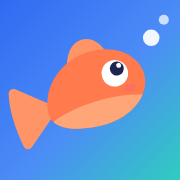
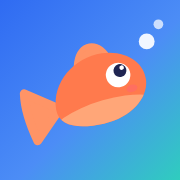
Add files via upload

diff --git a/index.html b/index.html
@@ -338,6 +338,18 @@ textarea.input{height:auto;min-height:100px;padding:14px 16px;line-height:1.4;re
 .bubble{position:absolute;top:4px;left:50%;transform:translateX(-50%);white-space:nowrap;background:var(--toast-bg);color:var(--toast-ink);font-weight:750;font-size:15px;padding:10px 14px;border-radius:18px 18px 18px 6px;box-shadow:0 10px 30px rgba(0,0,0,.2)}
 .art .mic-big{margin:60px 0 0}
 .lead-list{display:flex;flex-direction:column;gap:8px;width:250px}
+.lock-art{width:250px;height:220px;border-radius:30px;padding:22px 12px 12px;display:flex;flex-direction:column;align-items:center;color:#fff;background:linear-gradient(160deg,#1E3A7A,#2F6BF2 55%,#2FCDBE);box-shadow:0 18px 40px rgba(43,72,140,.25)}
+.lock-art b{font-size:50px;font-weight:700;letter-spacing:-.02em;line-height:1}
+.lock-art .lk-date{font-size:12.5px;font-weight:650;opacity:.85;margin-top:4px}
+.lk-note{margin-top:auto;width:100%;display:flex;gap:9px;align-items:flex-start;padding:10px;border-radius:18px;background:rgba(255,255,255,.24);-webkit-backdrop-filter:blur(10px);backdrop-filter:blur(10px);text-align:left;animation:lkIn 2.8s cubic-bezier(.2,.9,.25,1.1) infinite}
+.lk-ic svg{width:30px;height:30px;display:block}
+.lk-note div{flex:1;min-width:0;display:flex;flex-direction:column;gap:1px}
+.lk-t{font-size:12.5px;font-weight:800}
+.lk-b{font-size:12px;opacity:.92}
+.lk-now{font-size:10.5px;opacity:.8}
+@keyframes lkIn{0%{transform:translateY(16px);opacity:0}14%,86%{transform:none;opacity:1}100%{transform:none;opacity:1}}
+.i-notif{margin-top:22px;width:auto;padding:0 28px;min-height:52px;background:var(--card)!important;color:var(--brand-ink)!important;border:1.5px solid rgba(47,107,242,.28)!important;box-shadow:0 8px 22px rgba(47,107,242,.16)}
+.i-notif.done{color:#118C80}
 .lead-list div{display:flex;justify-content:space-between;align-items:center;gap:10px;background:var(--card);border:1px solid var(--stroke);box-shadow:var(--card-shadow);border-radius:14px;padding:10px 14px;font-weight:700;font-size:15px}
 .lead-list span{color:var(--ink-3);font-weight:700;font-size:13.5px;white-space:nowrap}
 .share-art{display:flex;gap:14px;align-items:center;font-weight:750}
@@ -380,7 +392,7 @@ textarea.input{height:auto;min-height:100px;padding:14px 16px;line-height:1.4;re
 </svg>
 
 <header class="bar">
-  <div class="brand"><svg xmlns="http://www.w3.org/2000/svg" aria-hidden="true" viewBox="0 0 100 100"><defs><linearGradient id="lbg" x1="0" y1="0" x2="1" y2="1"><stop offset="0" stop-color="#2F6BF2"/><stop offset=".55" stop-color="#4C8DF6"/><stop offset="1" stop-color="#2FCDBE"/></linearGradient><clipPath id="lsq"><rect width="100" height="100" rx="22.5"/></clipPath></defs><g clip-path="url(#lsq)"><rect width="100" height="100" fill="url(#lbg)"/><g transform="translate(48 53) scale(1.0515511141340528) translate(-50.43 -56.67)"><defs><clipPath id="lbody"><path d="M28 58 C30 42 46 32 62 34 C76 36 84 46 82 56 C80 66 68 74 52 73 C38 72 27 68 28 58 Z"/></clipPath></defs>
+  <div class="brand"><svg xmlns="http://www.w3.org/2000/svg" aria-hidden="true" viewBox="0 0 100 100"><defs><linearGradient id="lbg" x1="0" y1="0" x2="1" y2="1"><stop offset="0" stop-color="#2F6BF2"/><stop offset=".55" stop-color="#4C8DF6"/><stop offset="1" stop-color="#2FCDBE"/></linearGradient><clipPath id="lsq"><rect width="100" height="100" rx="22.5"/></clipPath></defs><g clip-path="url(#lsq)"><rect width="100" height="100" fill="url(#lbg)"/><g transform="translate(51 53) scale(0.9726847805739988) translate(-50.43 -56.67)"><defs><clipPath id="lbody"><path d="M28 58 C30 42 46 32 62 34 C76 36 84 46 82 56 C80 66 68 74 52 73 C38 72 27 68 28 58 Z"/></clipPath></defs>
 <g class="fishbody" transform="rotate(-16 54 54)">
   <path d="M30 58 L13 44 C11 52 11 60 13 72 Z" fill="#FF9466" stroke="#FF9466" stroke-width="5" stroke-linejoin="round"/>
   <path d="M46 37 C50 26 60 25 64 35 Z" fill="#FF9466" stroke="#FF9466" stroke-width="3" stroke-linejoin="round"/>
@@ -391,7 +403,7 @@ textarea.input{height:auto;min-height:100px;padding:14px 16px;line-height:1.4;re
   <circle cx="70.6" cy="45" r="1.3" fill="#fff"/>
   <ellipse cx="73" cy="58" rx="3.2" ry="2.1" fill="#FF5E7E" opacity=".4"/>
 </g>
-</g><circle cx="84" cy="21" r="4.6" fill="#fff" opacity=".92"/><circle cx="91" cy="11" r="2.8" fill="#fff" opacity=".72"/></g></svg>MeMo</div>
+</g><circle cx="81.5" cy="23" r="4.4" fill="#fff" opacity=".92"/><circle cx="88" cy="13.5" r="2.7" fill="#fff" opacity=".72"/></g></svg>MeMo</div>
   <div class="mini" aria-hidden="true"><span class="dot"></span><span id="miniTxt"></span></div>
   <div class="top-actions"><button class="icon-btn" id="btnSettings" aria-label="Impostazioni">
     <svg width="24" height="24" viewBox="0 0 24 24" fill="currentColor" aria-hidden="true"><circle cx="5" cy="12" r="1.8"/><circle cx="12" cy="12" r="1.8"/><circle cx="19" cy="12" r="1.8"/></svg>
@@ -407,7 +419,7 @@ textarea.input{height:auto;min-height:100px;padding:14px 16px;line-height:1.4;re
         <circle class="arc" id="ringArc" cx="100" cy="100" r="92" pathLength="100" stroke-dasharray="100" stroke-dashoffset="100" transform="rotate(-90 100 100)"/>
       </svg>
       <div class="center"><div class="num" id="heroNum"></div><div class="unit" id="heroUnit"></div>
-        <svg class="knot fish" id="heroKnot" hidden viewBox="0 0 100 100" aria-hidden="true"><g transform="translate(48 53) scale(1.1041286698407555) translate(-50.43 -56.67)"><defs><clipPath id="hbody"><path d="M28 58 C30 42 46 32 62 34 C76 36 84 46 82 56 C80 66 68 74 52 73 C38 72 27 68 28 58 Z"/></clipPath></defs>
+        <svg class="knot fish" id="heroKnot" hidden viewBox="0 0 100 100" aria-hidden="true"><g transform="translate(51 53) scale(1.0213190196026987) translate(-50.43 -56.67)"><defs><clipPath id="hbody"><path d="M28 58 C30 42 46 32 62 34 C76 36 84 46 82 56 C80 66 68 74 52 73 C38 72 27 68 28 58 Z"/></clipPath></defs>
 <g class="fishbody" transform="rotate(-16 54 54)">
   <path d="M30 58 L13 44 C11 52 11 60 13 72 Z" fill="#FF9466" stroke="#FF9466" stroke-width="5" stroke-linejoin="round"/>
   <path d="M46 37 C50 26 60 25 64 35 Z" fill="#FF9466" stroke="#FF9466" stroke-width="3" stroke-linejoin="round"/>
@@ -418,7 +430,7 @@ textarea.input{height:auto;min-height:100px;padding:14px 16px;line-height:1.4;re
   <circle cx="70.6" cy="45" r="1.3" fill="#fff"/>
   <ellipse cx="73" cy="58" rx="3.2" ry="2.1" fill="#FF5E7E" opacity=".4"/>
 </g>
-</g><circle cx="84" cy="21" r="4.6" fill="#8DA6F5" opacity=".92"/><circle cx="91" cy="11" r="2.8" fill="#8DA6F5" opacity=".72"/></svg></div>
+</g><circle cx="81.5" cy="23" r="4.4" fill="#8DA6F5" opacity=".92"/><circle cx="88" cy="13.5" r="2.7" fill="#8DA6F5" opacity=".72"/></svg></div>
     </div>
     <h1 id="heroTitle"></h1>
     <p id="heroSub"></p>
@@ -463,7 +475,7 @@ textarea.input{height:auto;min-height:100px;padding:14px 16px;line-height:1.4;re
 
 <button class="nb" id="nb" aria-live="assertive"><span class="ni" id="nbIcon"></span><span class="nt"><span class="nh"><b>MeMo</b><span>ora</span></span><span class="nti" id="nbT"></span><span class="nbo" id="nbB"></span></span></button>
 <div class="toast" id="toast" role="status" aria-live="polite">
-  <span class="tie"><svg xmlns="http://www.w3.org/2000/svg" aria-hidden="true" viewBox="0 0 100 100"><defs><linearGradient id="lbg" x1="0" y1="0" x2="1" y2="1"><stop offset="0" stop-color="#2F6BF2"/><stop offset=".55" stop-color="#4C8DF6"/><stop offset="1" stop-color="#2FCDBE"/></linearGradient><clipPath id="lsq"><rect width="100" height="100" rx="22.5"/></clipPath></defs><g clip-path="url(#lsq)"><rect width="100" height="100" fill="url(#lbg)"/><g transform="translate(48 53) scale(1.0515511141340528) translate(-50.43 -56.67)"><defs><clipPath id="lbody"><path d="M28 58 C30 42 46 32 62 34 C76 36 84 46 82 56 C80 66 68 74 52 73 C38 72 27 68 28 58 Z"/></clipPath></defs>
+  <span class="tie"><svg xmlns="http://www.w3.org/2000/svg" aria-hidden="true" viewBox="0 0 100 100"><defs><linearGradient id="lbg" x1="0" y1="0" x2="1" y2="1"><stop offset="0" stop-color="#2F6BF2"/><stop offset=".55" stop-color="#4C8DF6"/><stop offset="1" stop-color="#2FCDBE"/></linearGradient><clipPath id="lsq"><rect width="100" height="100" rx="22.5"/></clipPath></defs><g clip-path="url(#lsq)"><rect width="100" height="100" fill="url(#lbg)"/><g transform="translate(51 53) scale(0.9726847805739988) translate(-50.43 -56.67)"><defs><clipPath id="lbody"><path d="M28 58 C30 42 46 32 62 34 C76 36 84 46 82 56 C80 66 68 74 52 73 C38 72 27 68 28 58 Z"/></clipPath></defs>
 <g class="fishbody" transform="rotate(-16 54 54)">
   <path d="M30 58 L13 44 C11 52 11 60 13 72 Z" fill="#FF9466" stroke="#FF9466" stroke-width="5" stroke-linejoin="round"/>
   <path d="M46 37 C50 26 60 25 64 35 Z" fill="#FF9466" stroke="#FF9466" stroke-width="3" stroke-linejoin="round"/>
@@ -474,7 +486,7 @@ textarea.input{height:auto;min-height:100px;padding:14px 16px;line-height:1.4;re
   <circle cx="70.6" cy="45" r="1.3" fill="#fff"/>
   <ellipse cx="73" cy="58" rx="3.2" ry="2.1" fill="#FF5E7E" opacity=".4"/>
 </g>
-</g><circle cx="84" cy="21" r="4.6" fill="#fff" opacity=".92"/><circle cx="91" cy="11" r="2.8" fill="#fff" opacity=".72"/></g></svg></span>
+</g><circle cx="81.5" cy="23" r="4.4" fill="#fff" opacity=".92"/><circle cx="88" cy="13.5" r="2.7" fill="#fff" opacity=".72"/></g></svg></span>
   <div class="msg" id="toastMsg"></div>
   <div id="toastActions"></div>
 </div>
@@ -485,7 +497,7 @@ textarea.input{height:auto;min-height:100px;padding:14px 16px;line-height:1.4;re
 'use strict';
 const P = window.MeMoParser;
 const $ = s => document.querySelector(s);
-const VERSION = '1.21';
+const VERSION = '1.22';
 const isIOS = /iPhone|iPad|iPod/.test(navigator.userAgent);
 const isStandalone = () => window.navigator.standalone === true || matchMedia('(display-mode: standalone)').matches;
 
@@ -1481,17 +1493,28 @@ $('#btnSettings').addEventListener('click', openSettings);
 function showIntro() {
   const slides = [
     { art: `<div class="doc"><i style="width:55%"></i><i style="width:40%"></i><i style="width:48%"></i><span class="date">Scade 12.03.2031</span><span class="face"></span><span class="scanline"></span></div>`, h: 'Fai una foto.', p: "Carta d'identità, patente, scontrino, bolletta: MeMo legge da solo cos'è e quando scade." },
-    { art: `<span class="bubble">Oggi alle 18 parrucchiere</span><div class="mic-big on"><svg width="40" height="40" viewBox="0 0 24 24" fill="none" stroke="currentColor" stroke-width="2.2" stroke-linecap="round"><rect x="9" y="3" width="6" height="11" rx="3"/><path d="M5.5 11.5a6.5 6.5 0 0 0 13 0M12 18v3"/></svg></div>`, h: 'Oppure dillo.', p: "Tocca Dimmi e parla come faresti con un amico. Per scrivere a mano c'è il piccolo +." },
-    { art: `<div class="lead-list"><div>🛂 Passaporto<span>4 mesi prima</span></div><div>🚗 Patente<span>2 mesi prima</span></div><div>💇 Parrucchiere<span>15 min prima</span></div><div>📞 Chiamare Luca<span>5 min prima</span></div></div>`, h: 'E dimenticatelo.', p: 'Ti avviso io, con il giusto anticipo per ogni cosa. E se serve, te lo ricordo ancora.' },
+    { art: `<span class="bubble">Oggi alle 18 parrucchiere</span><div class="mic-big on"><svg width="40" height="40" viewBox="0 0 24 24" fill="none" stroke="currentColor" stroke-width="2.2" stroke-linecap="round"><rect x="9" y="3" width="6" height="11" rx="3"/><path d="M5.5 11.5a6.5 6.5 0 0 0 13 0M12 18v3"/></svg></div>`, h: 'Oppure dillo.', p: "Tocca Dimmi e parla come faresti con un amico. Prenditi il tuo tempo: quando fai una pausa, ho capito. Per scrivere a mano c'è il +." },
+    { art: `<div class="lead-list"><div>🛂 Passaporto<span>4 mesi prima</span></div><div>🚗 Patente<span>2 mesi prima</span></div><div>💇 Parrucchiere<span>15 min prima</span></div><div>📞 Chiamare Luca<span>5 min prima</span></div></div>`, h: 'E dimenticatelo.', p: 'Scelgo io il giusto anticipo per ogni cosa. E se non lo segni come fatto, te lo ricordo ancora.' },
     { art: `<div class="swipe-art"><div class="pg l">📅<span>Calendario</span></div><div class="pg c"><b>MeMo</b><i></i><i></i></div><div class="pg r">⚙<span>Impostazioni</span></div><div class="hand">👆</div></div>`,
       h: 'Scorri di lato.', p: 'Verso destra trovi il calendario con tutti i tuoi MeMo. Verso sinistra, le impostazioni.' }
   ];
   const lastSlide = { art: `<div class="start-art">${['🪪 Carta d\'identità', '🚗 Patente', '🚙 Bollo auto', '🛡 Assicurazione', '💡 Bollette', '🎂 Compleanni', '🔁 Abbonamenti', '🧾 Garanzie'].map(x => `<span>${x}</span>`).join('')}</div>`,
     h: 'Svuota la testa.', p: 'Per partire alla grande, dimmi subito tutto quello che è importante ricordare. Lo fai una volta sola: da lì in poi non ci pensi più, ci penso io.' };
   if (isIOS && !isStandalone()) slides.push({ art: `<div class="share-art"><span><svg width="28" height="28" viewBox="0 0 24 24" fill="none" stroke="currentColor" stroke-width="2" stroke-linecap="round" stroke-linejoin="round"><path d="M12 3v12M8 7l4-4 4 4M5 12v8h14v-8"/></svg></span><svg width="22" height="12" viewBox="0 0 22 12" fill="none" stroke="currentColor" stroke-width="2.4" stroke-linecap="round"><path d="M2 6h17M14 1l5 5-5 5"/></svg><span><svg width="28" height="28" viewBox="0 0 24 24" fill="none" stroke="currentColor" stroke-width="2" stroke-linecap="round"><rect x="4" y="4" width="16" height="16" rx="4"/><path d="M12 8v8M8 12h8"/></svg></span></div>`, h: 'Mettila nella Home.', p: "In Safari tocca Condividi, poi «Aggiungi alla schermata Home». Si apre come un'app vera." });
+  const pst = Push.state();
+  if (pst !== 'noserver' && pst !== 'nosupport') {
+    const np = {
+      off: "Anche a telefono bloccato, all'ora giusta. Tocca qui sotto e consenti le notifiche: è l'unica cosa che ti chiedo.",
+      on: 'Le notifiche sono attive: ti avviso anche a telefono bloccato, all\'ora giusta.',
+      install: 'Ti avviso anche a telefono bloccato. Quando MeMo è nella Home, aprila da lì e attiva le notifiche nelle impostazioni.',
+      denied: "Le notifiche sono bloccate. Riattivale da Impostazioni dell'iPhone › Notifiche › MeMo, così ti avviso anche a telefono bloccato."
+    }[pst];
+    slides.push({ art: `<div class="lock-art"><b>9:41</b><span class="lk-date">giovedì 23 ottobre</span><div class="lk-note"><span class="lk-ic">${LOGO_SVG}</span><div><span class="lk-t">📞 Chiamare Luca adesso</span><span class="lk-b">Telefono in mano, sorriso pronto.</span></div><span class="lk-now">adesso</span></div></div>`,
+      h: 'Ti avviso io.', p: np, extra: pst === 'off' ? '<button class="btn btn-ghost i-notif" id="iNotif">Attiva le notifiche</button>' : '' });
+  }
   slides.push(lastSlide);
   const el = document.createElement('div'); el.className = 'intro'; el.setAttribute('role', 'dialog'); el.setAttribute('aria-label', 'Come funziona MeMo');
-  el.innerHTML = `<button class="skip">Salta</button><div class="slides">${slides.map(s => `<section class="slide"><div class="art">${s.art}</div><h2>${s.h}</h2><p>${s.p}</p></section>`).join('')}</div>
+  el.innerHTML = `<button class="skip">Salta</button><div class="slides">${slides.map(s => `<section class="slide"><div class="art">${s.art}</div><h2>${s.h}</h2><p>${s.p}</p>${s.extra || ''}</section>`).join('')}</div>
     <div class="intro-foot"><div class="dots">${slides.map((_, i) => `<i class="${i ? '' : 'on'}"></i>`).join('')}</div><button class="btn btn-main" id="iNext">Avanti</button></div>`;
   document.body.appendChild(el);
   const sc = el.querySelector('.slides'), dots = el.querySelectorAll('.dots i'), next = el.querySelector('#iNext');
@@ -1500,6 +1523,10 @@ function showIntro() {
   const close = () => { store.set('intro', '1'); el.style.transition = 'opacity .35s'; el.style.opacity = '0'; setTimeout(() => el.remove(), 350); };
   next.onclick = () => { const i = idx(); if (i >= slides.length - 1) close(); else sc.scrollTo({ left: (i + 1) * sc.clientWidth, behavior: 'smooth' }); };
   el.querySelector('.skip').onclick = close;
+  const nb = el.querySelector('#iNotif');
+  if (nb) nb.onclick = async () => { nb.disabled = true; nb.textContent = 'Un attimo…'; let st; try { st = await Push.enable(); } catch (e) { st = 'error'; }
+    nb.textContent = st === 'on' ? 'Notifiche attive ✓' : st === 'denied' ? 'Bloccate: riattivale dalle Impostazioni' : 'Riprova più tardi dalle impostazioni';
+    if (st === 'on') { haptic(); nb.classList.add('done'); setTimeout(() => next.click(), 700); } };
 }
 
 // ================= Richiami in parole =================

diff --git a/sw.js b/sw.js
@@ -1,5 +1,5 @@
 /* MeMo — funziona anche offline. Cambia VERSION quando aggiorni i file su GitHub. */
-const VERSION = 'memo-v1.21';
+const VERSION = 'memo-v1.22';
 const SHELL = ['./', 'index.html', 'parser.js', 'notify.js', 'manifest.json', 'icon-192.png', 'icon-512.png', 'apple-touch-icon.png'];
 
 self.addEventListener('install', e => {
